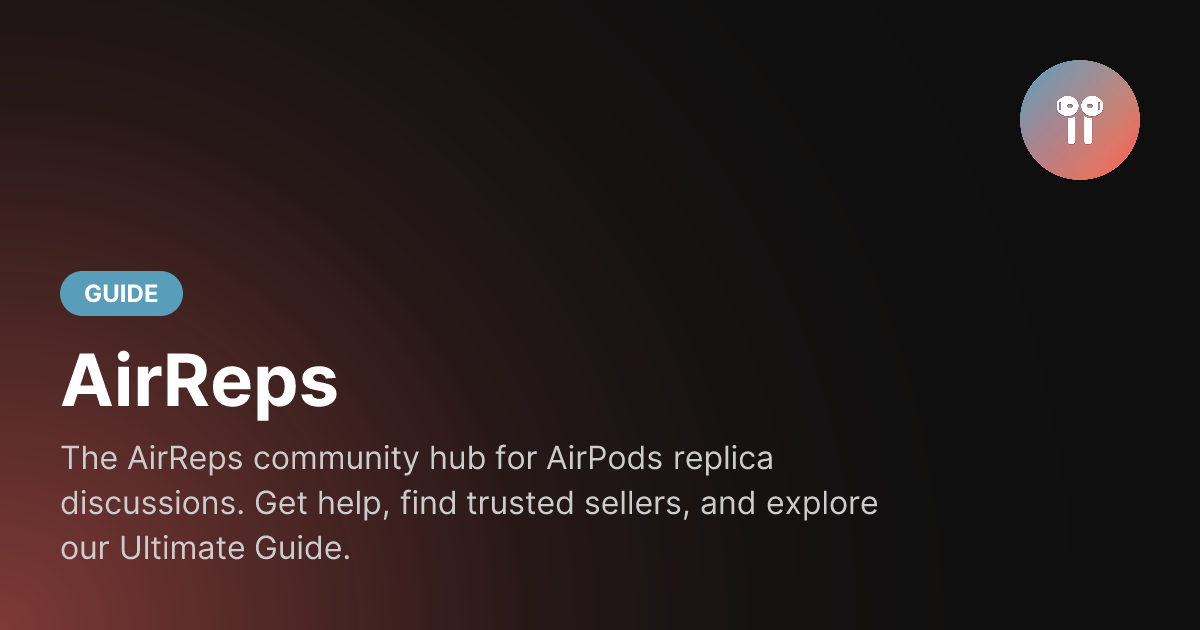
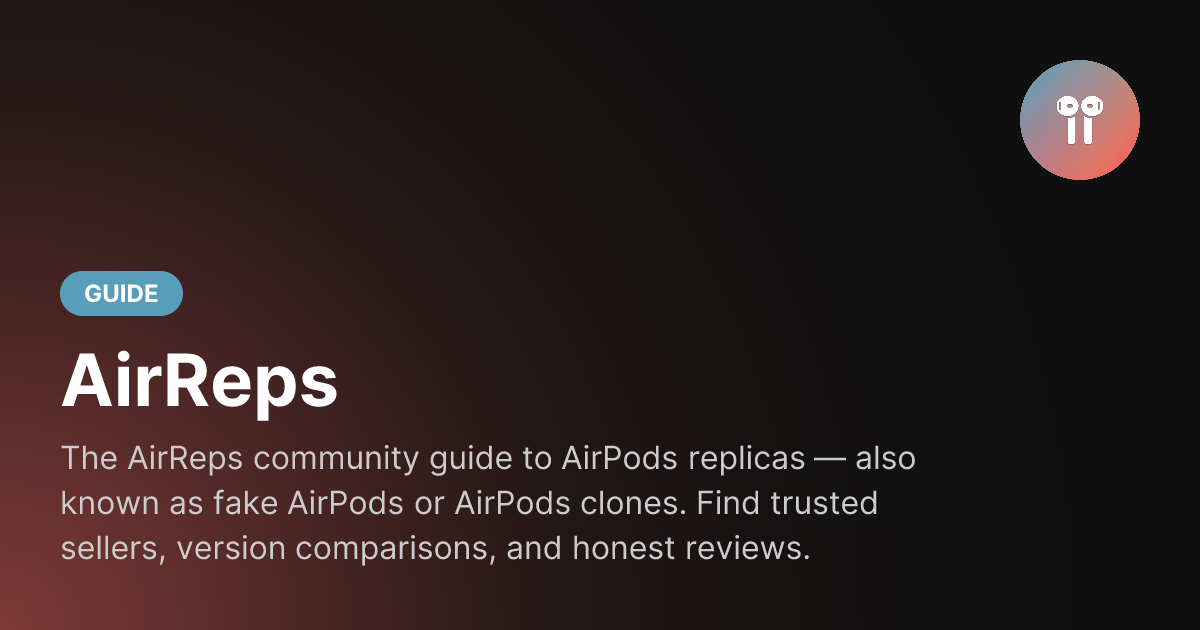
seo: expand KakoBuy guide with intro, agent comparison, and FAQ schema
- Reframe H1 + meta description around 'KakoBuy Guide' + 'AirPods Replicas' keywords
- Add 'What is KakoBuy?' top-funnel intro and KakoBuy-vs-other-agents section
- Add 6 FAQ entries (auto-extracts to FAQPage JSON-LD via existing pipeline)
- Document Triangle Shipping VAT handling and per-line shipping insurance
- Add /ordering/kakobuy contextual links from links/info and dictionary

Changed region(s): [[0.0617, 0.8444, 0.6783, 0.9048], [0.3392, 0.6937, 0.7708, 0.754], [0.0308, 0.7841, 0.74, 0.8143]]

diff --git a/docs/ordering/kakobuy.md b/docs/ordering/kakobuy.md
@@ -1,8 +1,12 @@
 ---
-description: Order AirPods replicas through KakoBuy, an agent that buys from Chinese sellers on your behalf with QC photos and no KYC.
+description: KakoBuy guide for AirPods replicas — step-by-step ordering, shipping cost, QC photos, payment without KYC, and how KakoBuy compares to Superbuy and Sugargoo.
 ---
 
-# Ordering with KakoBuy
+# KakoBuy Guide: How to Buy AirPods Replicas
+
+## What is KakoBuy?
+
+KakoBuy is a Chinese shopping agent (also called a "taobao agent") that purchases products from sellers on Weidian, Taobao, and 1688 on your behalf, holds the items at its warehouse, takes quality control (QC) photos, and ships them to you internationally. For AirPods replicas, KakoBuy is the agent the AirReps community recommends because it accepts standard payment methods — credit/debit card, PayPal, Apple Pay, Google Pay — without requiring KYC identity verification.
 
 ::: info
 [KakoBuy](https://airreps.link/kakobuy) is a purchasing agent — they buy products from Chinese sellers on your behalf, inspect them, and ship them to you internationally. This is especially useful if you want to **combine shipping with other items from China**, or if you **can't buy directly** from a seller's website.
@@ -18,6 +22,18 @@ description: Order AirPods replicas through KakoBuy, an agent that buys from Chi
 ::: tip
 For a single pair of AirPods, shipping through KakoBuy typically costs **$7–10 USD**. If you're only buying AirPods and nothing else, it may be simpler to [order directly from a seller's website](/ordering/how-to-buy). KakoBuy shines when you're combining orders or when the seller's payment methods (crypto, AliPay, bank transfer) don't work for you — KakoBuy accepts regular credit/debit cards, PayPal, Apple Pay, and Google Pay.
 :::
+
+## KakoBuy vs Other Agents
+
+KakoBuy is one of several shopping agents that serve the replica market. Others include **Superbuy**, **CSSBuy**, **Sugargoo**, **Hoobuy**, and **AllChinaBuy**. They all do roughly the same thing — purchase from Chinese sellers, warehouse the items, take QC photos, and ship internationally — but they differ in fees, payment methods, and UI quality.
+
+For AirPods replicas specifically, we recommend KakoBuy because:
+
+- **No KYC** — credit/debit card, PayPal, Apple Pay, and Google Pay all work without identity verification
+- **Direct Weidian integration** — paste any Weidian link, or use the KakoBuy buttons in our [Links](/links/info) section for one-click product loading
+- **Reasonable rates on light items** — AirPods are small and light, so KakoBuy's shipping lines work out competitively versus agents that are optimized for fashion or heavier parcels
+
+If you already have an account with another agent and only want to order AirPods, any of them will work — you can paste the same Weidian links from our [Links](/links/info) section into any agent's search bar.
 
 ## How to Order
 
@@ -75,4 +91,30 @@ For AirPods only, most standard shipping lines work fine. Expect delivery in **7
 After shipment, track your parcel under **User Center** → **Parcel**. You'll see the shipping method, tracking number, and live status updates as the package moves through international transit.
 
 ![KakoBuy parcel tracking page](/images/kakobuy/parcel-tracking.webp)
+
+## FAQ
+
+::: details Is KakoBuy safe for buying AirPods replicas?
+KakoBuy is a legitimate Chinese shopping agent that has been used by the AirReps community for years. It holds your items at its warehouse, takes QC photos, and lets you inspect them before international shipping — so you can request a return or refund before committing. Payments go through standard processors (credit/debit card, PayPal, Apple Pay, Google Pay) with the same fraud protection as any other online purchase. For peace of mind on international transit, you can add shipping insurance to any shipping line for a small extra fee at checkout.
+:::
+
+::: details How much does KakoBuy shipping cost for AirPods?
+For a single pair of AirPods, expect **$7–10 USD** for international shipping. Final cost depends on your destination country and the shipping line you choose — express lines (DHL, FedEx) cost more, while KakoBuy's **Triangle Shipping** line bundles VAT into the shipping fee so there's nothing extra to pay on arrival. Combining multiple items into one parcel lowers the per-item shipping cost significantly, which is one of the main reasons people use an agent in the first place.
+:::
+
+::: details Does KakoBuy require KYC verification?
+No. KakoBuy uses standard payment processors that accept credit/debit cards, PayPal, Apple Pay, and Google Pay without identity verification. This is one of the main reasons buyers choose KakoBuy over paying sellers directly — some seller payment gateways trigger KYC checks for credit card payments, and KakoBuy avoids that entirely.
+:::
+
+::: details How does KakoBuy compare to Superbuy, CSSBuy, or Sugargoo?
+All four are Chinese shopping agents that do the same core job — purchase, warehouse, QC, and ship. KakoBuy is the AirReps recommendation for AirPods replicas because its payment flow doesn't trigger KYC, its UI handles Weidian links cleanly, and our [Links section](/links/info) has direct KakoBuy buttons for every trusted seller. **Superbuy** is larger and more established but has higher service fees and stricter verification on some payment methods. **CSSBuy** is older with a dated UI and occasionally requires phone verification. **Sugargoo** is popular for fashion buyers but doesn't offer a meaningful advantage for AirPods.
+:::
+
+::: details Will I be charged customs fees or VAT on a KakoBuy order?
+For most buyers, no. KakoBuy's **Triangle Shipping** lines declare a low parcel value and pay any VAT upfront on your behalf, so you don't get hit with a customs bill on arrival. This is the line most AirReps buyers use — it bundles the import taxes into the shipping fee, and you pay nothing extra when the parcel reaches your country. If you choose a non-Triangle shipping line, customs handling falls back to your country's standard rules and you may need to pay VAT yourself on delivery.
+:::
+
+::: details Can I cancel or modify a KakoBuy order?
+Yes, as long as the seller hasn't shipped to the KakoBuy warehouse yet. Go to **User Center** → **Order** and request cancellation or modification — KakoBuy will contact the seller on your behalf. Once the seller has shipped, you generally can't cancel, but you can still refuse the item after QC if it's the wrong model or defective, and KakoBuy will handle the return with the seller.
+:::
 

diff --git a/docs/links/info.md b/docs/links/info.md
@@ -75,7 +75,7 @@ All trusted sellers accept multiple payment methods for your convenience:
 ::: tip
 Payments via Wise or Bank Transfer require manual review by the seller, which can take up to 24 hours to process.
 
-For Weidian orders, you'll need to use an agent. We recommend [KakoBuy](https://airreps.link/kakobuy), which accepts Credit Cards and multiple payment methods.
+For Weidian orders, you'll need to use an agent. We recommend [KakoBuy](https://airreps.link/kakobuy), which accepts Credit Cards and multiple payment methods — see our [KakoBuy guide](/ordering/kakobuy) for a step-by-step walkthrough.
 :::
 
 ## FAQ
@@ -109,7 +109,7 @@ Trusted sellers use a secure crypto payment gateway to process Credit Card payme
 
 **Note: Some payment processors may occasionally prompt for an ID check (KYC) to comply with local regulations, though this is not always required.**
 
-**Alternative:** If you want to avoid any possibility of KYC verification, consider using [KakoBuy](https://airreps.link/kakobuy), an agent platform that purchases products from sellers on your behalf and provides quality control (QC) pictures before shipping. KakoBuy uses regular payment processors that accept credit and debit cards and **never require KYC verification** or identity checks. This makes it an excellent option if you prefer to use your card without any KYC requirements while still getting the added assurance of QC pictures.
+**Alternative:** If you want to avoid any possibility of KYC verification, consider using [KakoBuy](https://airreps.link/kakobuy), an agent platform that purchases products from sellers on your behalf and provides quality control (QC) pictures before shipping. KakoBuy uses regular payment processors that accept credit and debit cards and **never require KYC verification** or identity checks. This makes it an excellent option if you prefer to use your card without any KYC requirements while still getting the added assurance of QC pictures. See our [KakoBuy ordering guide](/ordering/kakobuy) for a full walkthrough.
 :::
 
 ::: tip

diff --git a/docs/introduction/dictionary.md b/docs/introduction/dictionary.md
@@ -44,7 +44,7 @@ A "Legit Check" verifies the authenticity of a product, often used when purchasi
 
 ## Agent: Freight Agent/Shipping Forwarder
 
-An "Agent" is a third party who facilitates safe purchases from sellers (often in China) to buyers. They act as representatives, ensuring products are not faulty and buyers receive what they ordered. We recommend [KakoBuy](https://airreps.link/kakobuy).
+An "Agent" is a third party who facilitates safe purchases from sellers (often in China) to buyers. They act as representatives, ensuring products are not faulty and buyers receive what they ordered. We recommend [KakoBuy](https://airreps.link/kakobuy) — see our [KakoBuy guide](/ordering/kakobuy) for how to use it.
 
 **Example:** "You might need to use an agent to get them, as currently HiCity doesn't ship to the Philippines."
 